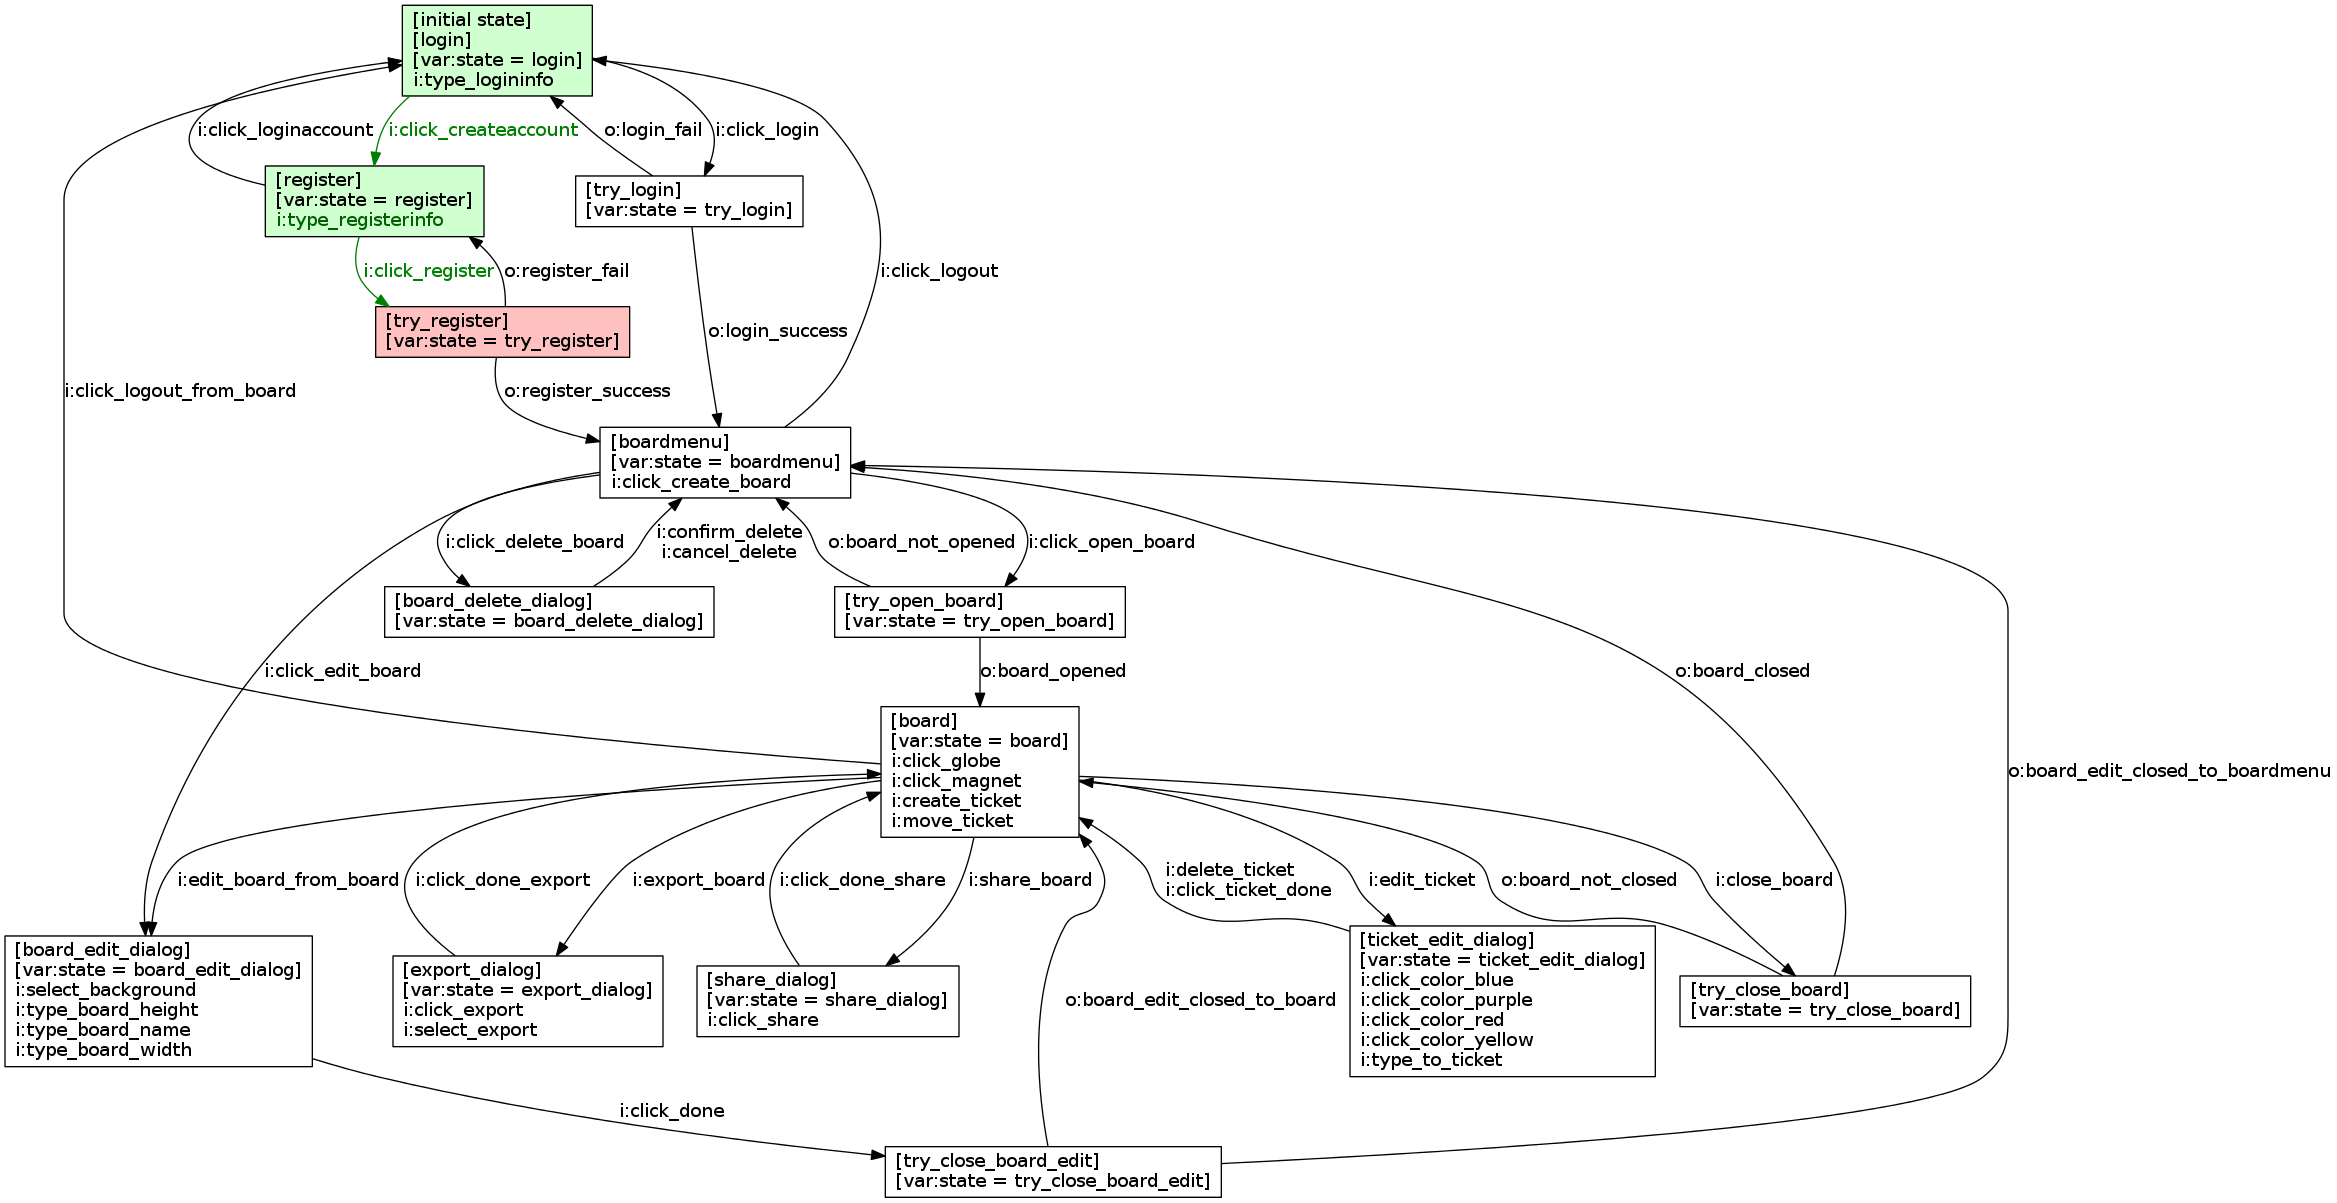
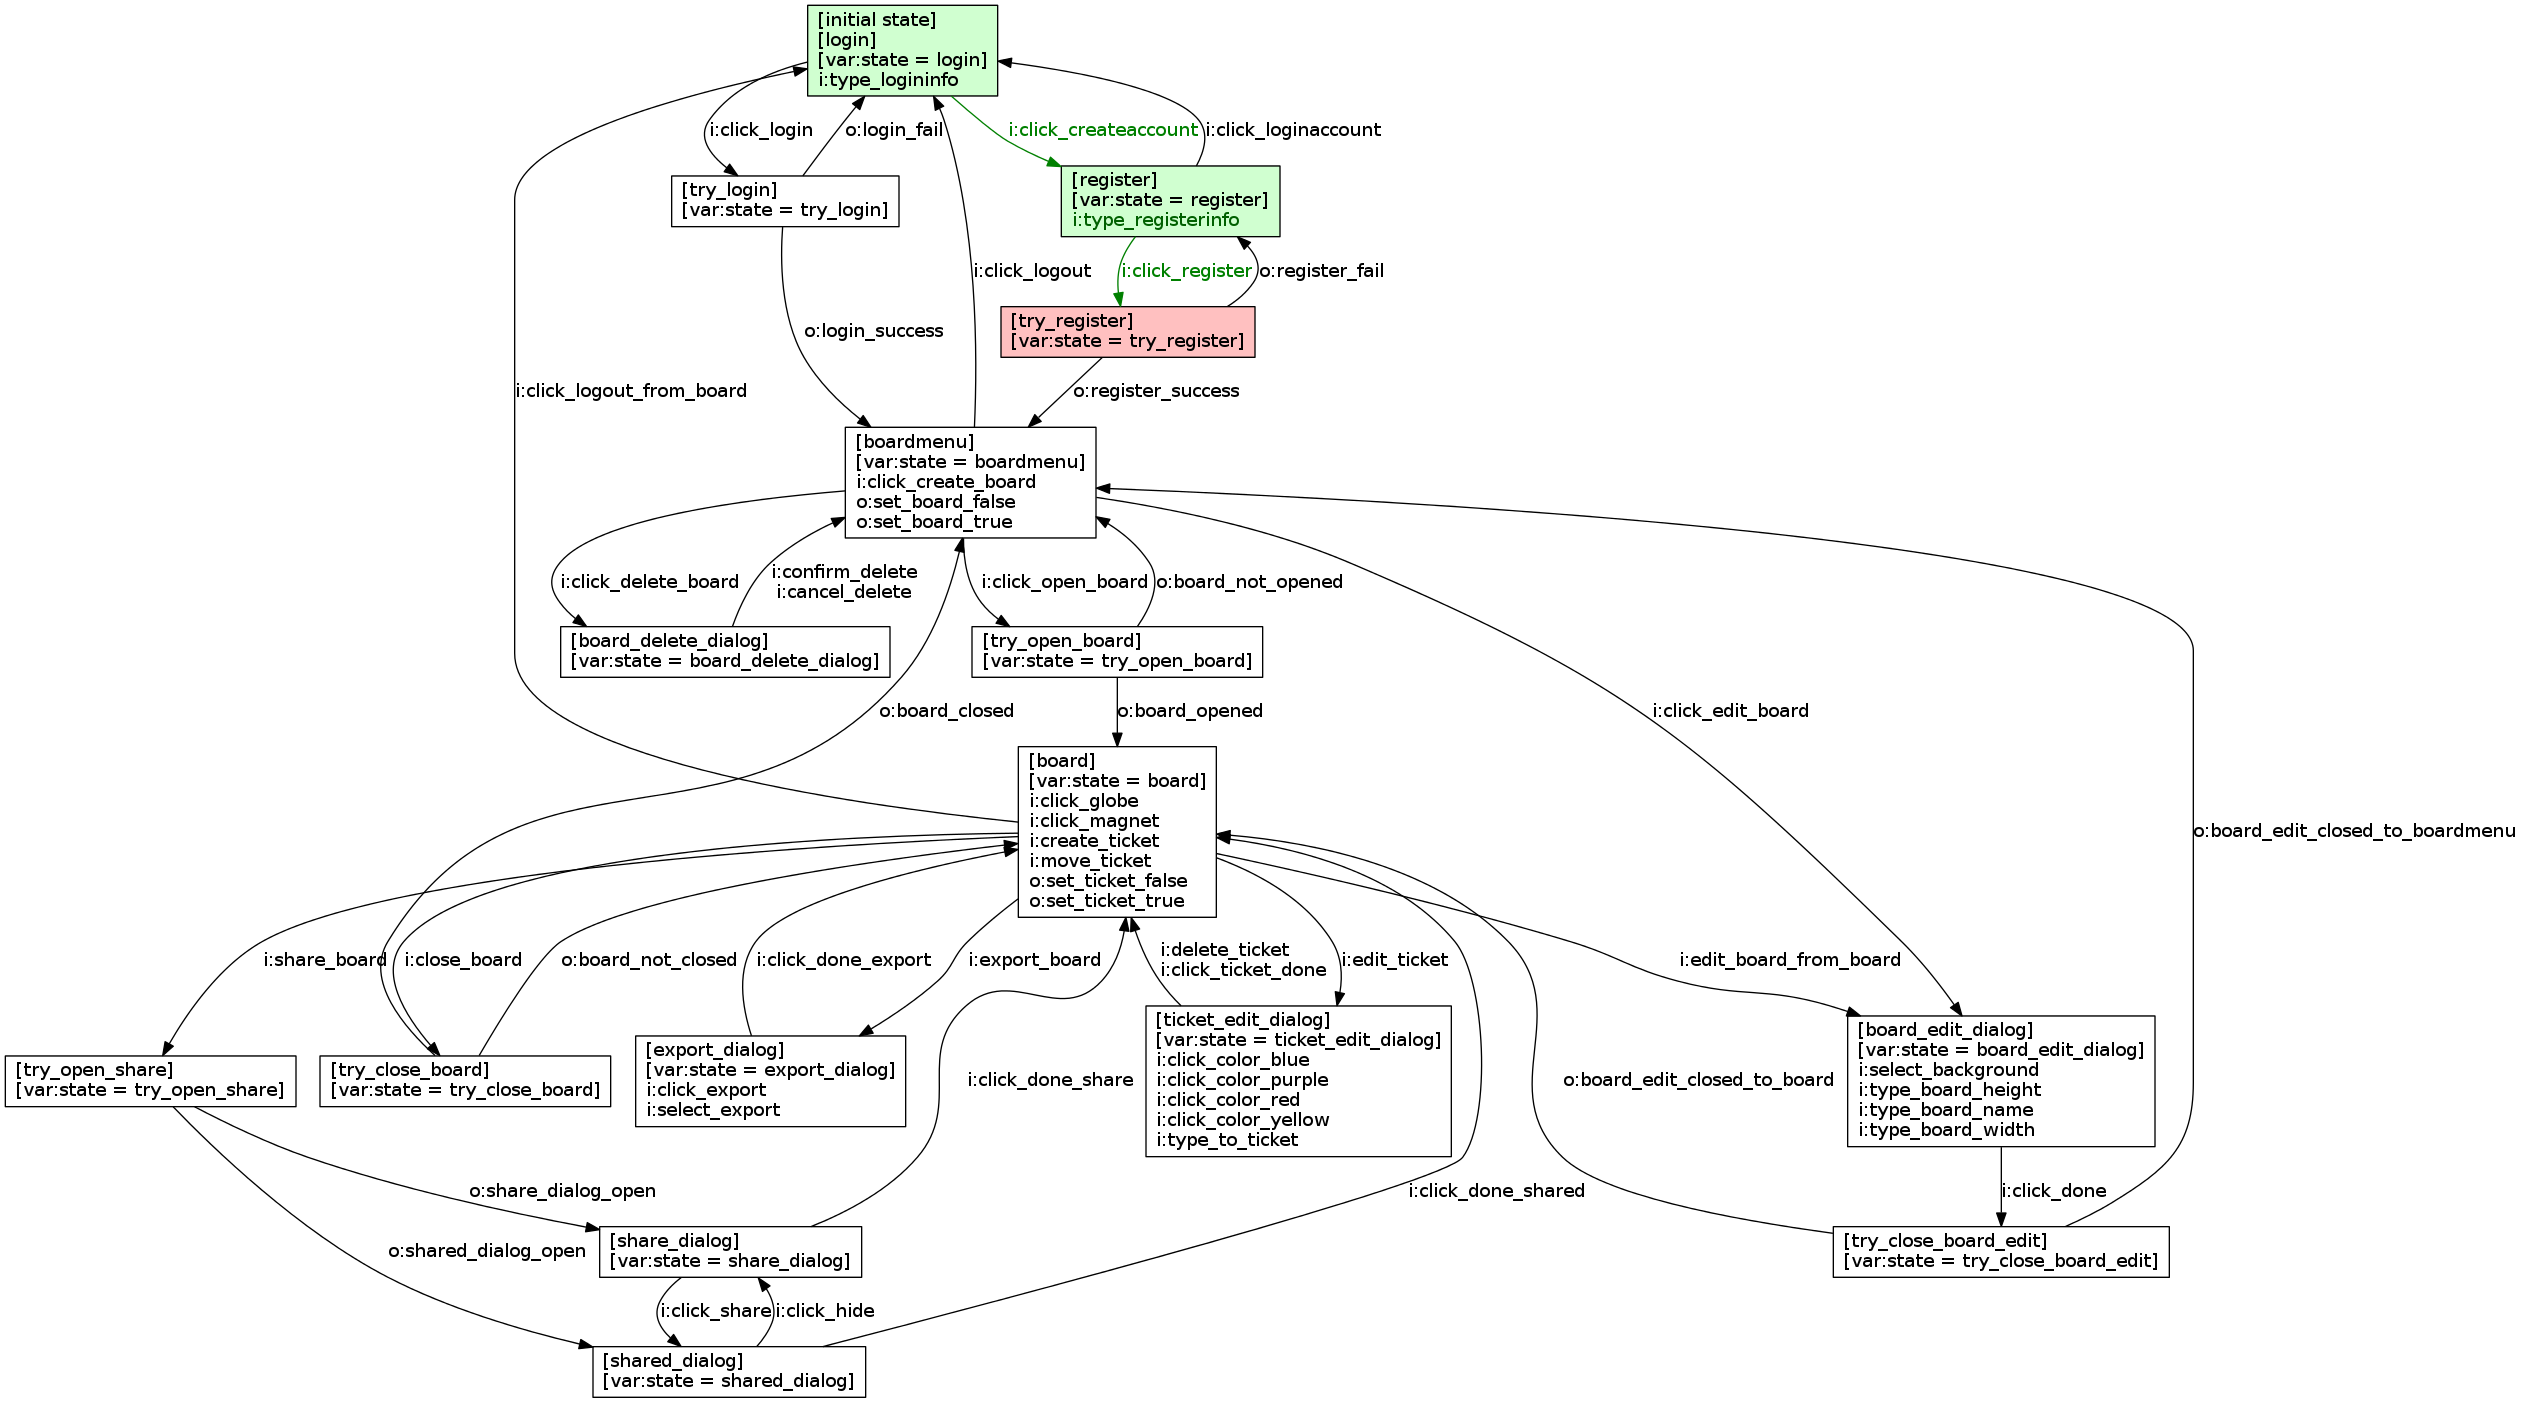
Add test functionalities

diff --git a/fmbt/Contriboard/seleniumadapter.py b/fmbt/Contriboard/seleniumadapter.py
@@ -22,7 +22,7 @@ resultsPath = "../../fmbt_testresults"
 
 pollTime = 0.3
 
-timeout = 2.0
+timeoutTime = 2.0
 
 email = "testbaboon@test.com"
 password = "t3stmonkey"
@@ -37,7 +37,8 @@ stateAssets = {
 	"board_edit_dialog" 	: ["//form[@class='dialog dialog-edit-board']"],
 	"delete_board_dialog" 	: ["//form[@class='dialog dialog-remove-board']"],
 	"export_dialog" 	: ["//form[@class='dialog dialog-edit-board']"],
-	"share_dialog" 	: ["//form[@class='dialog dialog-edit-board']"],
+	"share_dialog" 	: ["//button[@class='btn-secondary']"],
+	"shared_dialog" 	: ["//button[@class='btn-neutral']"],
 	"ticket_edit_dialog" 	: ["//form[@class='dialog edit-ticket-dialog']"]
 }
 
@@ -169,30 +170,36 @@ def createBoard():
 
 def editBoard():
 	rs()
-	driver.find_element_by_xpath("//span[@class='fa fa-fw fa-pencil']").click()
-	wait()
+	if isElement("//span[@class='fa fa-fw fa-pencil']"):
+		driver.find_element_by_xpath("//span[@class='fa fa-fw fa-pencil']").click()
+		wait()
 
 def deleteBoard():
 	rs()
-	driver.find_element_by_xpath("//span[@class='fa fa-fw fa-trash']").click()
-	wait()
+	if isElement("//span[@class='fa fa-fw fa-trash']"):
+		driver.find_element_by_xpath("//span[@class='fa fa-fw fa-trash']").click()
+		wait()
 
 def openBoard():
 	rs()
-	driver.find_element_by_xpath("//div[@class='minimap']").click()
-	wait()
+	if isElement("//div[@class='minimap']"):
+		driver.find_element_by_xpath("//div[@class='minimap']").click()
+		wait()
 
 #board
 
 def createTicket():
 	rs()
-	driver.find_element_by_xpath("//div[@class='board']").click()
+	board = driver.find_element_by_xpath("//div[@class='board']")
+	AC(driver).double_click(board).perform()
 	wait()
 
 def editTicket():
 	rs()
-	driver.find_element_by_xpath("//div[@class='ticket']").click()
-	wait()
+	if isElement("//div[@class='ticket']"):
+		ticket = driver.find_element_by_xpath("//div[@class='ticket']")
+		AC(driver).double_click(ticket).perform()
+		wait()
 
 def closeBoard():
 	rs()
@@ -221,13 +228,18 @@ def clickMagnet():
 
 def clickGlobe():
 	rs()
-	driver.find_element_by_xpath("//span[@class=)'fa fa-fw fa-globe']").click()
+	driver.find_element_by_xpath("//span[@class='fa fa-fw fa-globe']").click()
 	wait()
 
 def moveTicket():
 	rs()
-	driver.find_element_by_xpath("//div[@class='ticket']").click()
-	wait()
+	if isElement("//div[@class='ticket']"):
+		board = driver.find_element_by_xpath("//div[@class='board']")	
+		ticket = driver.find_element_by_xpath("//div[@class='ticket']")
+		xdest = random.randint(0, board.size.get('width') - ticket.size.get('width'))
+		ydest = random.randint(0, board.size.get('height') - ticket.size.get('height'))
+		AC(driver).click_and_hold(ticket).move_to_element_with_offset(board, xdest, ydest).release(ticket).perform()
+		wait()
 
 #boardedit
 
@@ -278,13 +290,13 @@ def clickDoneExport():
 
 def clickExport():
 	rs()
-	driver.find_element_by_xpath("a[@class='btn btn-secondary']").click()
+	driver.find_element_by_xpath("//a[@class='btn btn-secondary']").click()
 	wait()
 
 def selectExport():
 	rs()
 	driver.find_element_by_xpath("//select").click()
-	driver.find_element_by_xpath("//option[@value='JSON']").click()
+	driver.find_element_by_xpath("//option[@value='json']").click()
 	wait()
 
 #share
@@ -297,6 +309,18 @@ def clickDoneShare():
 def clickShare():
 	rs()
 	driver.find_element_by_xpath("//button[@class='btn-secondary']").click()
+	wait()
+
+#shared
+
+def clickDoneShared():
+	rs()
+	driver.find_element_by_xpath("//button[@class='btn-primary']").click()
+	wait()
+
+def clickHide():
+	rs()
+	driver.find_element_by_xpath("//button[@class='btn-neutral']").click()
 	wait()
 
 #ticketedit
@@ -336,6 +360,24 @@ def ticketDone():
 	rs()
 	driver.find_element_by_xpath("//button[@class='btn-primary']").click()
 	wait()
+
+# checks
+
+def checkTicket():
+    rs()
+    result = isElement("//div[@class='ticket']")
+    if result:
+        return True
+    else:
+        return False
+
+def checkBoard():
+	rs()
+	result = isElement("//div[@class='minimap']")
+	if result:
+		return True
+	else:
+		return False
 
 
 #State check
